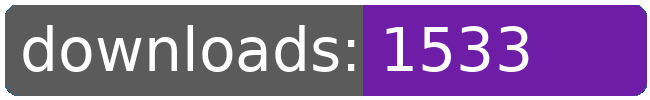
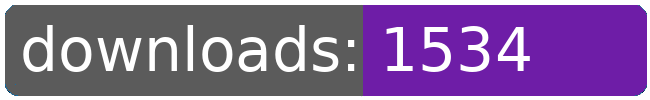
dl log written

Changed region(s): [[0.7692, 0.24, 0.8308, 0.72]]

diff --git a/README.md b/README.md
@@ -230,8 +230,8 @@
 		<td>1520</td>
 		<td>1526</td>
 		<td>1530</td>
-		<td>1533</td>
-		<td>+ 3</td>
+		<td>1534</td>
+		<td>+ 4</td>
 	</tr>
 	<tr>
 		<td>zoom.extension</td>
@@ -252,8 +252,8 @@
 		<td></td>
 		<td></td>
 		<td></td>
-		<td>37008</td>
-		<td>152</td>
+		<td>37009</td>
+		<td>153</td>
 	</tr>
 </table>
 </sub></sup>
@@ -421,8 +421,8 @@
 		<td>1520</td>
 		<td>1526</td>
 		<td>1530</td>
-		<td>1533</td>
-		<td>+ 3</td>
+		<td>1534</td>
+		<td>+ 4</td>
 	</tr>
 	<tr>
 		<td>capture.augen</td>
@@ -509,8 +509,8 @@
 		<td></td>
 		<td></td>
 		<td></td>
-		<td>37008</td>
-		<td>152</td>
+		<td>37009</td>
+		<td>153</td>
 	</tr>
 </table>
 </sub></sup>
